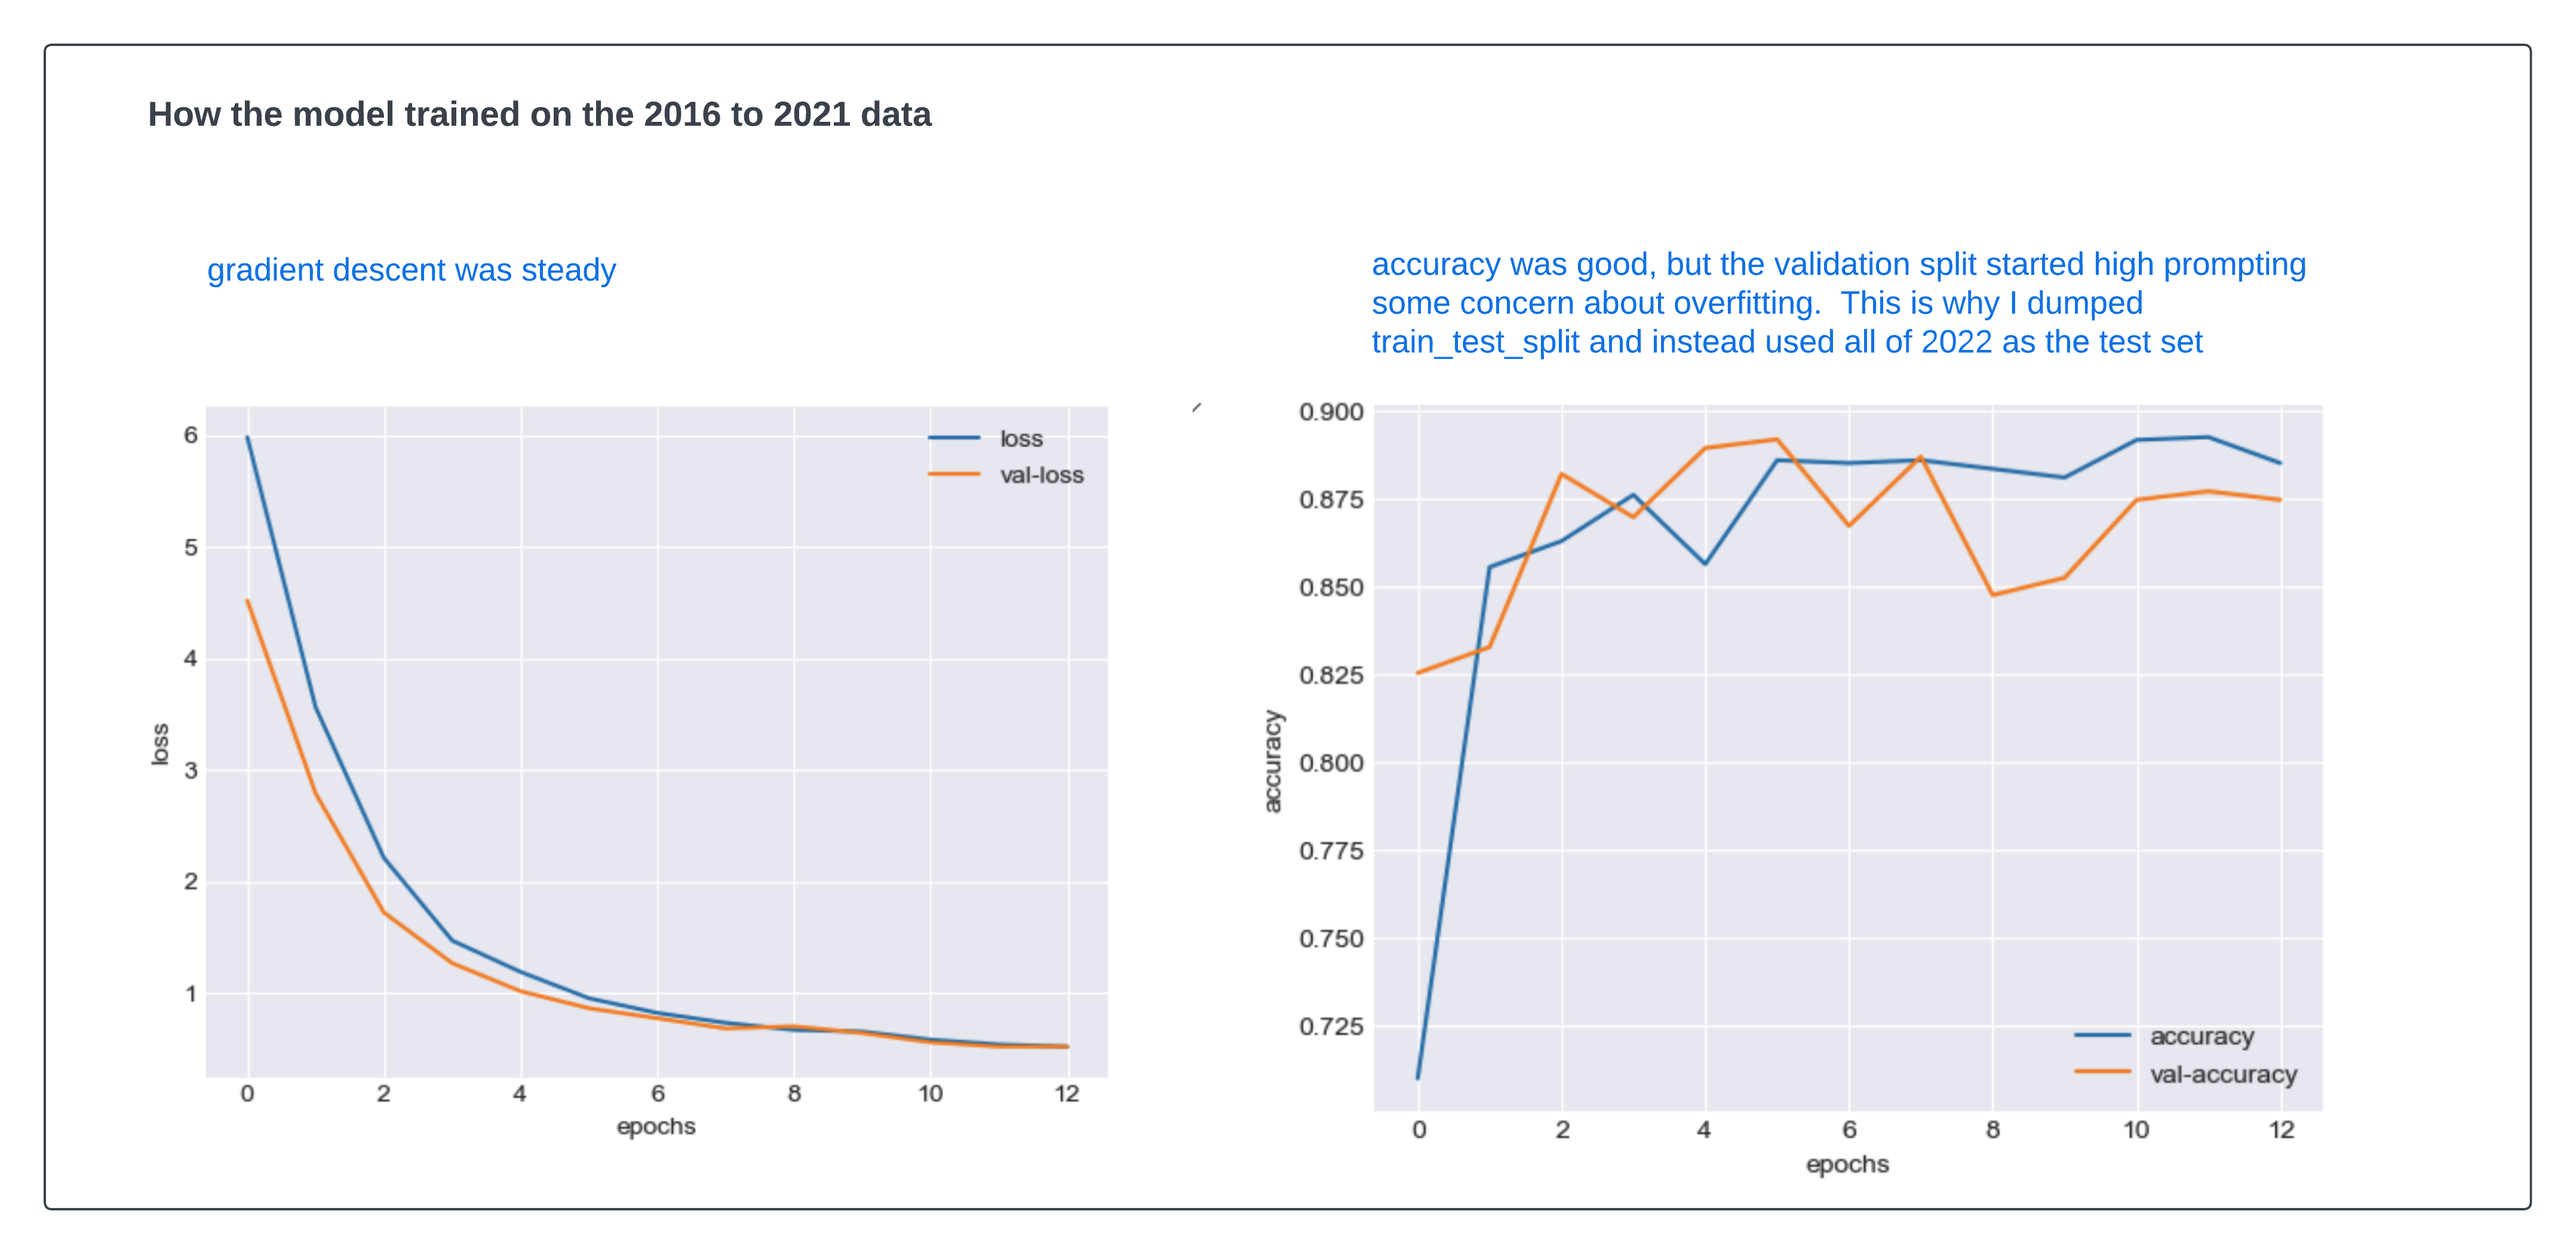
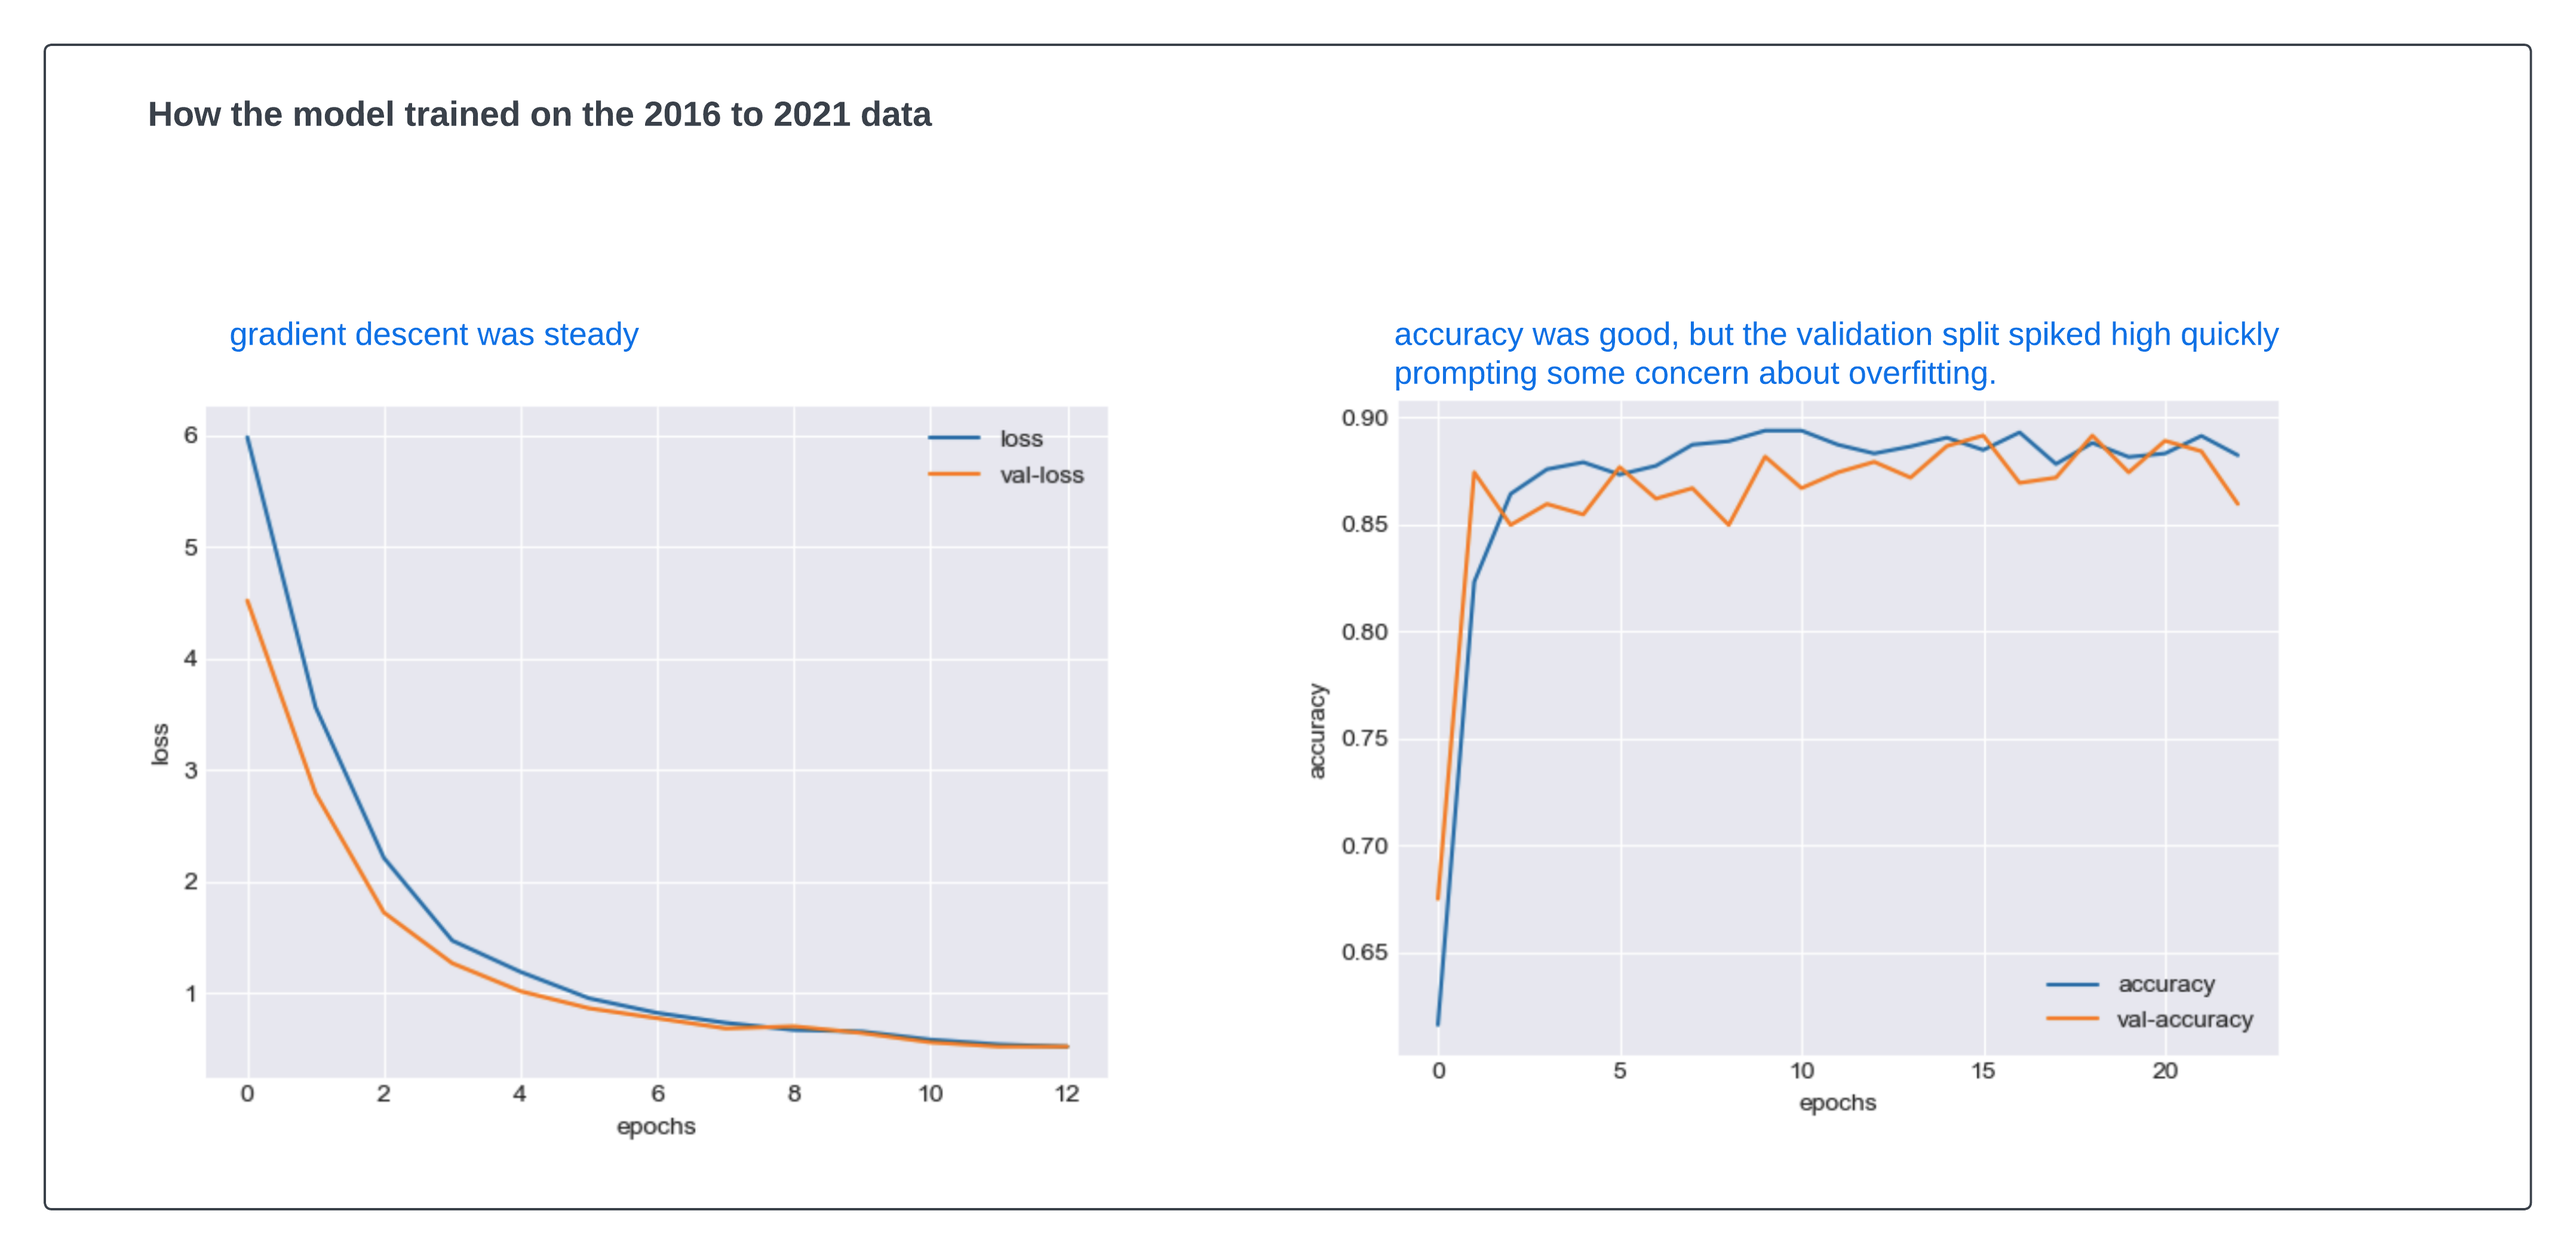
more changes

diff --git a/doc/nfl_project_docs/Home.md b/doc/nfl_project_docs/Home.md
@@ -1,0 +1,18 @@
+## NFL machine learning capstone
+
+This is the home page for documentation of the NFL machine-learning capstone for Springboard Online Bootcamp.
+
+You can find the code for this project [Here](https://github.com/cjlcoursework/nflverse_project)
+
+### Content
+
+
+- [Presentation](Presentation). -- credenza-ware presentation
+
+- [Article](Article). -- the main 'write-up' for understanding the project
+
+- [Structure](Structure) -- how the project files and directories are structured
+
+- [Workflow](Workflow). -- high level view of the solution
+
+
